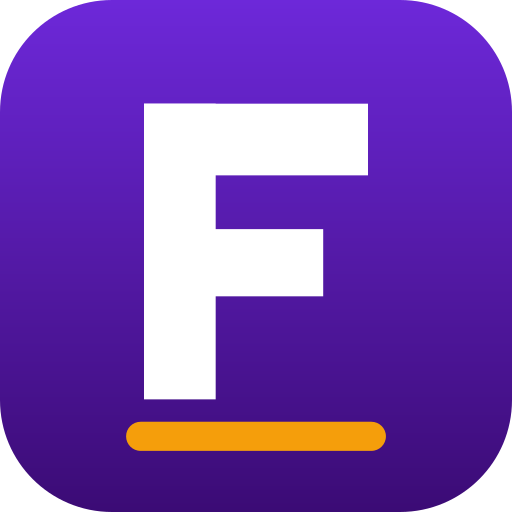
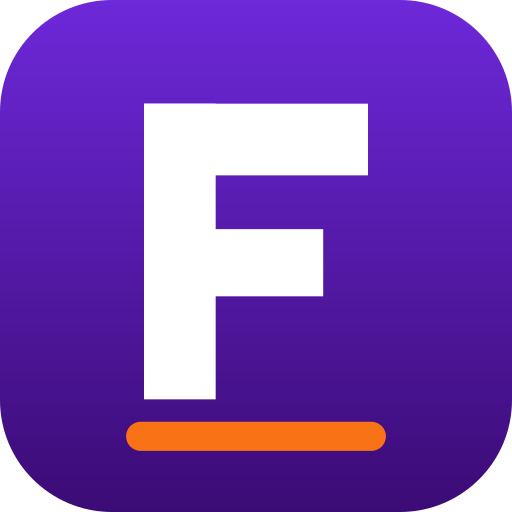
feat(brand): carry one brand lockup into the header and every surface
The icon set was rebuilt last pass but the surfaces around it were not, so the
mark, the wordmark and the link preview still read as three different brands.

Header and in-app lockup:
- wordmark set in the brand purple with the tile mark, and an accent bar before
  the tagline taken from --brand-accent, so the header carries the same amber as
  the icon plinth instead of plain black text beside a purple tile
- light and dark variants both defined by the shared component, which the
  navbar, footer, login, admin login and loading screen already use

Shared quotations:
- the client-facing quote page now opens with the mark and wordmark, and its
  buttons and headings use the brand purple rather than an unrelated blue

Link previews:
- social-cover.png, og-image.png and og-image-opt.jpg regenerated from the same
  1200x630 vector card as the icon source: gradient field, tile mark, wordmark,
  accent rule, positioning line and domain
- image weight falls from 781 KB to 128 KB, with a 35 KB JPEG for platforms that
  cap payload

Consistency:
- icon accent moved from #F59E0B to #F97316 so artwork matches the accent token
  used by the interface
- npm run icons:brand now regenerates the icons and the social card together
- tests assert the 1200x630 size and weight budget, that icon and card sources
  share one accent, and that every brand surface renders the shared component

24 brand tests green, tsc clean, build prerenders 1638 routes.

Changed region(s): [[0.25, 0.8125, 0.75, 0.9062]]

diff --git a/src/config/brand-assets.test.ts b/src/config/brand-assets.test.ts
@@ -7,7 +7,7 @@
  * until someone shares a link. This suite reads the references and checks them
  * against the files that actually ship.
  */
-import { existsSync, readFileSync } from "fs";
+import { existsSync, readFileSync, statSync } from "fs";
 import { describe, expect, it } from "vitest";
 
 const read = (path: string) => readFileSync(path, "utf8");
@@ -56,6 +56,41 @@ describe("brand assets behind link previews", () => {
       expect(pngSize(path), path).toEqual({ width: px, height: px });
     }
     expect(existsSync("public/favicon.ico"), "favicon.ico").toBe(true);
+  });
+
+  it("ships one branded social card at the Open Graph size", () => {
+    for (const file of ["social-cover.png", "og-image.png"]) {
+      const size = pngSize(`public/${file}`);
+      expect(`${size.width}x${size.height}`, file).toBe("1200x630");
+      expect(statSync(`public/${file}`).size, file).toBeLessThan(250_000);
+    }
+    const jpeg = statSync("public/og-image-opt.jpg");
+    expect(jpeg.size).toBeLessThan(250_000);
+  });
+
+  it("draws the icon and the social card from the same brand accent", () => {
+    const mark = read("public/brand/frelux-mark.svg");
+    const card = read("scripts/generate-social-card.mjs");
+    const icons = read("scripts/generate-brand-icons.mjs");
+    for (const source of [mark, card, icons]) {
+      expect(source).toContain("#F97316");
+      expect(source).not.toContain("#F59E0B");
+    }
+  });
+
+  it("brands every surface through the shared logo component", () => {
+    for (const page of [
+      "src/components/layout/Navbar.tsx",
+      "src/components/layout/Footer.tsx",
+      "src/pages/Login.tsx",
+      "src/pages/admin/AdminLogin.tsx",
+      "src/components/ui/BrandedLoader.tsx",
+    ]) {
+      expect(read(page), page).toContain("brand/Logo");
+    }
+    const share = read("src/pages/QuoteShare.tsx");
+    expect(share).toContain("/brand/frelux-mark.svg");
+    expect(share).not.toContain("blue-600");
   });
 
   it("declares the same icons in the manifest and the document head", () => {

diff --git a/src/components/brand/Logo.tsx b/src/components/brand/Logo.tsx
@@ -16,14 +16,10 @@ export default function Logo({
 }: LogoProps) {
   const { branding } = useBranding();
   const { theme } = useTheme();
-  const brandText =
-    light || theme === "dark"
-      ? "text-primary-foreground dark:text-primary-foreground"
-      : "text-foreground";
-  const subText =
-    light || theme === "dark"
-      ? "text-primary-foreground/70 dark:text-primary-foreground/70"
-      : "text-muted-foreground dark:text-muted-foreground";
+  const onDark = light || theme === "dark";
+  const brandText = onDark ? "text-white" : "text-brand-purple";
+  const subText = onDark ? "text-white/70" : "text-brand-purple/70";
+  const accentBar = onDark ? "bg-brand-orange" : "bg-brand-orange";
 
   const logoUrl =
     theme === "dark" ? branding?.dark_logo_url : branding?.light_logo_url;
@@ -60,22 +56,28 @@ export default function Logo({
         />
       )}
       {variant === "full" && (
-        <span className="flex flex-col leading-none">
+        <span className="flex flex-col justify-center leading-none">
           <span
             className={classNames(
-              "text-base font-bold tracking-tight",
+              "text-[17px] font-extrabold tracking-[-0.01em]",
               brandText,
             )}
           >
             {shortName}
           </span>
-          <span
-            className={classNames(
-              "text-[10px] font-semibold uppercase tracking-[0.18em]",
-              subText,
-            )}
-          >
-            {tagline}
+          <span className="mt-1.5 flex items-center gap-1.5">
+            <span
+              aria-hidden="true"
+              className={classNames("h-[2px] w-3 rounded-full", accentBar)}
+            />
+            <span
+              className={classNames(
+                "text-[10px] font-semibold uppercase tracking-[0.18em]",
+                subText,
+              )}
+            >
+              {tagline}
+            </span>
           </span>
         </span>
       )}

diff --git a/src/pages/QuoteShare.tsx b/src/pages/QuoteShare.tsx
@@ -147,9 +147,25 @@ export default function QuoteShare() {
     <Container>
       <div className="mx-auto max-w-5xl py-8">
         <div className={CARD}>
+          <div className="mb-4 flex items-center gap-2 border-b border-slate-200 pb-4">
+            <img
+              src="/brand/frelux-mark.svg"
+              alt=""
+              aria-hidden="true"
+              width={28}
+              height={28}
+              className="h-7 w-7"
+            />
+            <span className="text-sm font-extrabold tracking-tight text-brand-purple">
+              FRELUX
+            </span>
+            <span className="text-[10px] font-semibold uppercase tracking-[0.18em] text-brand-purple/70">
+              Smart Calc
+            </span>
+          </div>
           <div className="flex flex-wrap items-start justify-between gap-3">
             <div>
-              <p className="text-xs font-semibold uppercase tracking-wide text-blue-600">
+              <p className="text-xs font-semibold uppercase tracking-wide text-brand-purple">
                 {quoteShareHeading(snapshot.mode)}
               </p>
               <h1 className="mt-1 text-xl font-semibold text-slate-900">
@@ -165,7 +181,7 @@ export default function QuoteShare() {
                 type="button"
                 onClick={() => void downloadPdf()}
                 disabled={busy}
-                className="h-9 rounded-lg bg-blue-600 px-3 text-xs font-semibold text-white transition hover:bg-blue-700 disabled:opacity-60"
+                className="h-9 rounded-lg bg-brand-purple px-3 text-xs font-semibold text-white transition hover:bg-brand-purple/90 disabled:opacity-60"
               >
                 {busy ? "Preparing…" : "Download PDF"}
               </button>
